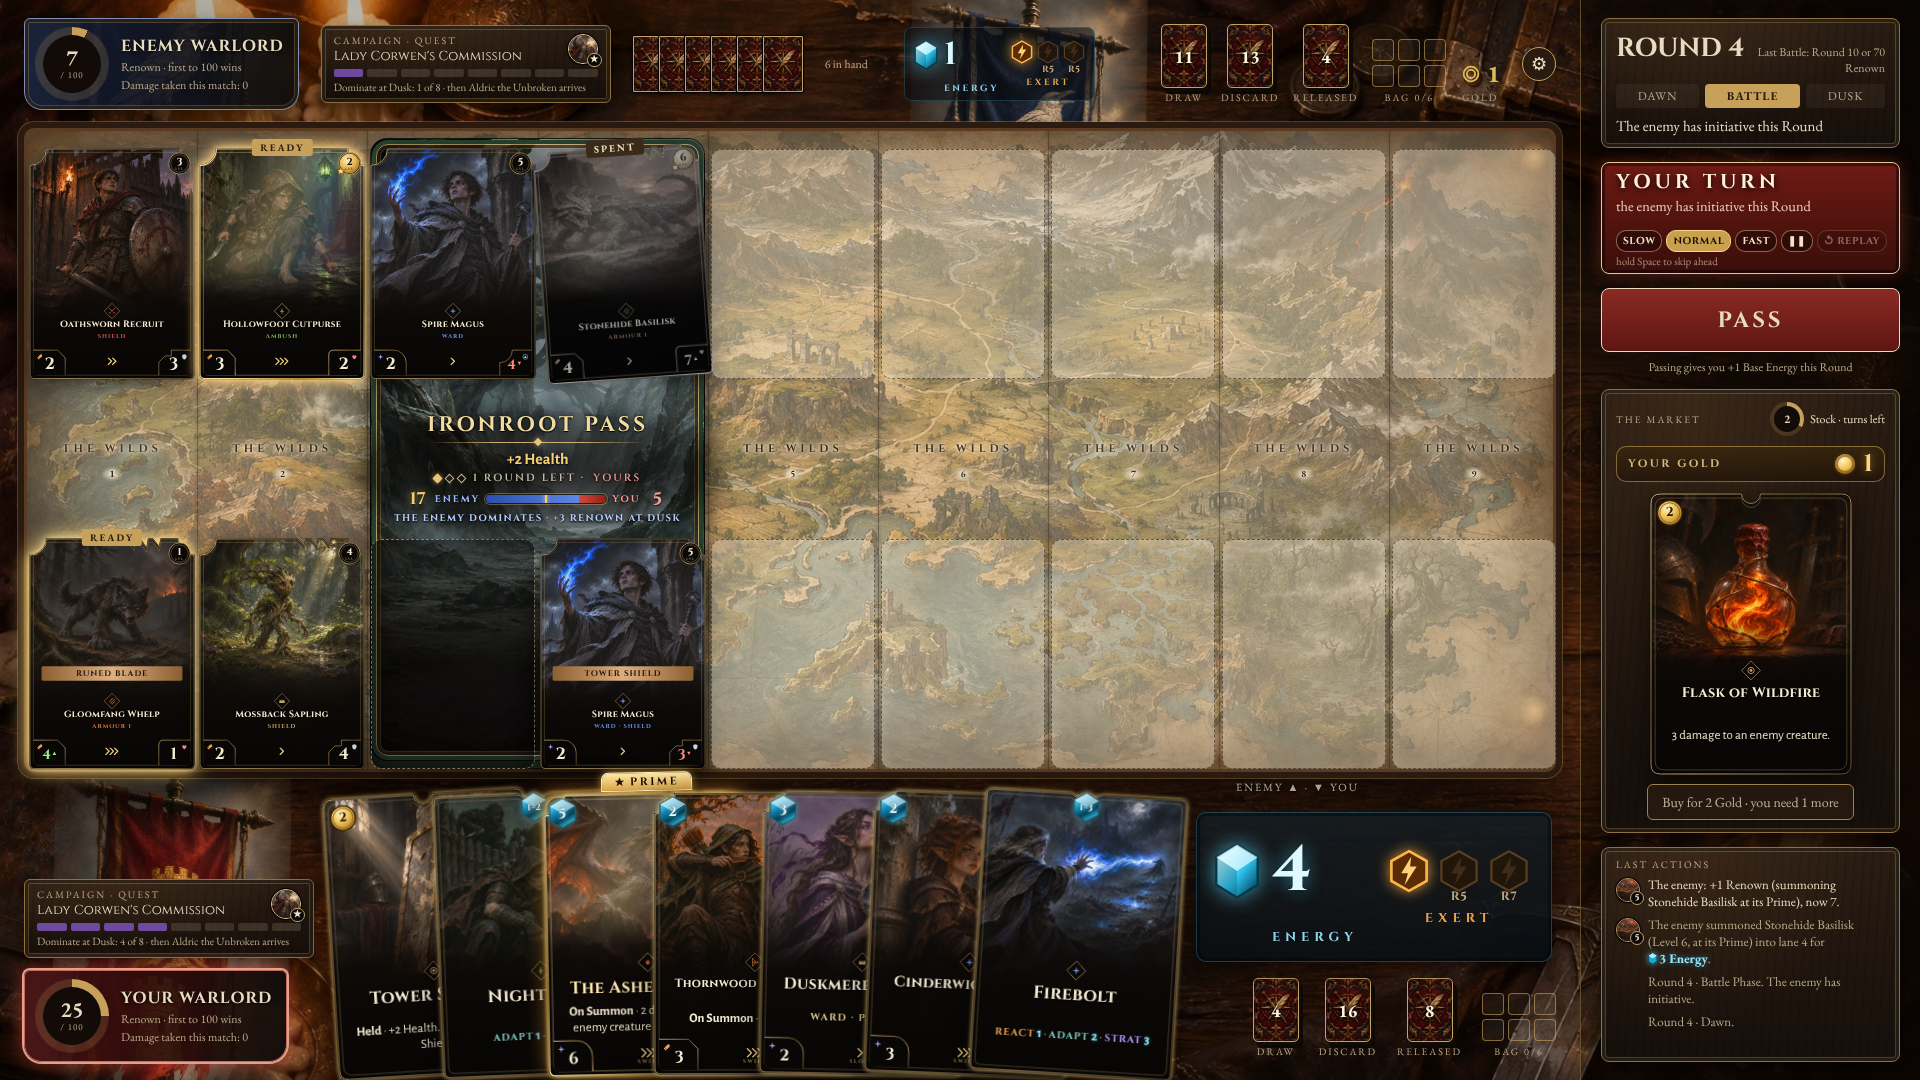
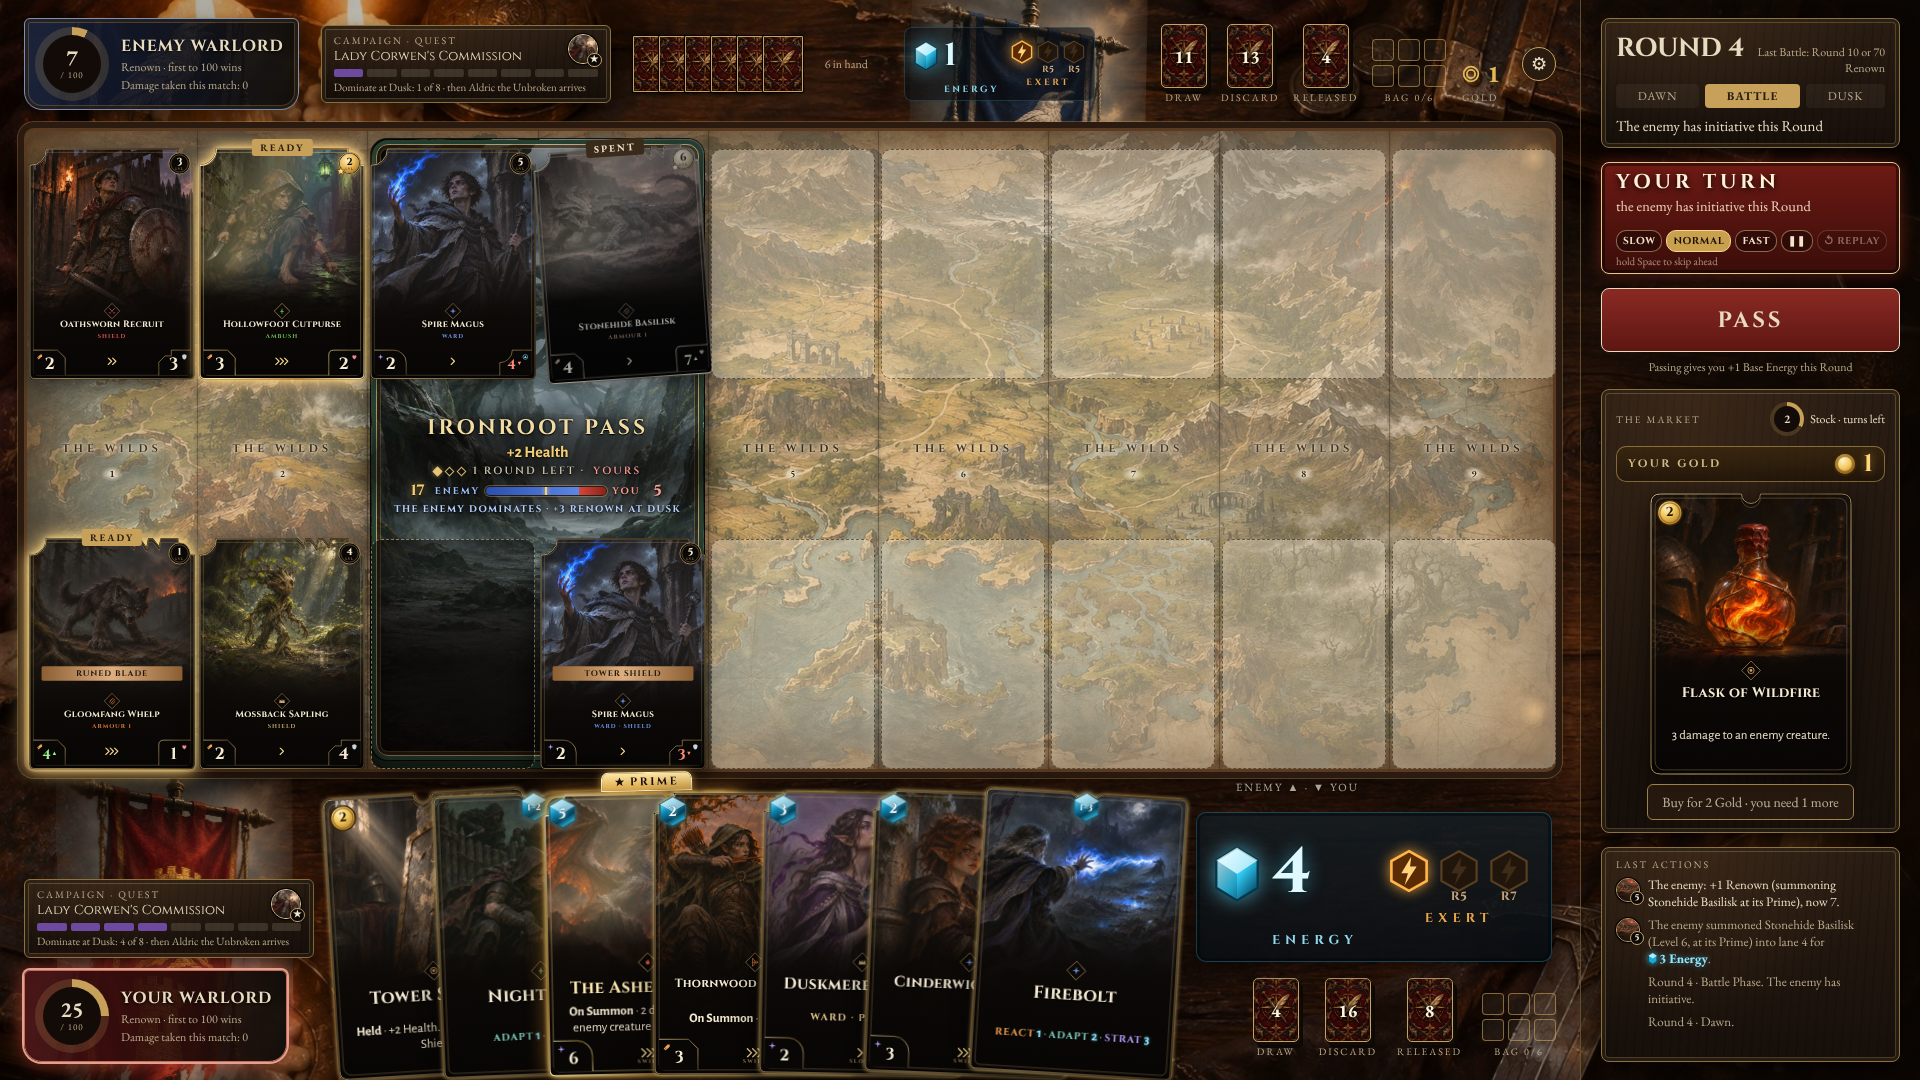
V5: README build-log entry with the match-length numbers
Claude-Session: https://claude.ai/code/session_01PfomRVSDGtFzY92diN3VpL

diff --git a/README.md b/README.md
@@ -432,3 +432,62 @@ node tools/compare.mjs
     It saves both screens at the same moments (`tools/screenshots/m-*.png`).
   - The layout check adds the lobby screens and online match setup at all three sizes.
 - Stage F's and G's readings are approved (17 November 2026). Stage M's readings, for Elliott's approval: `docs/03-look-and-feel.md` section 13.
+
+### V5: Keyword tips, turns, pacing, effects, dominance by Might and the Energy display (17 November 2026)
+- Built to `docs/15-v5-players-experience.md` as Elliott reduced it, and its "Added with V5". Mockups: `docs/mockups/v5/` (v5-turn, v5-enemy) and `docs/mockups/dominance-v1/`, in stage G's crystal cyan, from either seat online. The guided battle, the rules overlay, "You can", the Dusk summary and the accessibility tab weren't built.
+- **Dominance by Might** (rulebook 9 and 11; decided at Elliott's request):
+  - **The rule:** a creature's Might is its current Attack plus current Health. The side with more total Might in a placed Location dominates it at Dusk (+3); the Last Battle works the same way across the battlefield (+5, 8 with the passive). Ties and empty Locations score nothing.
+  - **The engine and the AI:** the engine's `dominantIn` uses Might. The AI's evaluation follows it, since it scores dominance through `dominantOf`.
+  - **The rest:** the Codex's glossary and Location lines, the keyword tips, and `tests/v5-might.test.js` (ties, damage, buffs, Items, Prime, the Last Battle).
+- **50 AI-vs-AI matches before and after** (`docs/balance/v5-before.txt`, `v5-after.txt`):
+
+  | | Before (Health) | After (Might) |
+  |---|---|---|
+  | Average length | 8.96 Rounds (median 9, 7–13) | 9.08 Rounds (median 9, 7–14) |
+  | Defeats | 33.5% of Renown | 31.5% |
+  | Damage to the Warlord | 22.0% | 25.5% |
+  | Location dominance | 21.8% | 21.0% |
+  | Favours | 11.2% | 10.3% |
+  | Prime summons | 6.4% | 6.7% |
+  | Last Battle dominance | 3.9% | 3.9% |
+  | Quests | 1.2% | 1.0% |
+  | Last Battle reached | 48 of 50 | 50 of 50 |
+  | Player 1's wins | 27 of 50 | 27 of 50 |
+
+- **The dominance line:**
+  - Each Location's label shows "N ENEMY ━━━|━━━ YOU N" (the bar split by share, a gold halfway mark, the leader in gold) and who scores at Dusk. The Last Battle's line runs above the board.
+  - Each creature's Might shows as a hexagon only while the pointer is over the line.
+  - The numbers and bar animate when Might changes.
+  - At Dusk the hexagons pop and count into the totals before the Renown flies.
+- **The Energy display** sits beside your hand, above your piles:
+  - one cyan crystal, one big number and "ENERGY";
+  - "EXERT" as three amber rune tiles (ready ones glow; exhausted ones are dark, with the Round they come back);
+  - a cost preview ("4 → 1") while you hover or pick up a card, with the runes it would spend pulsing;
+  - the number counts and the crystal pulses as Energy changes, and a spent rune flares into the number.
+  
+  The other player's Energy shows the same way, small, in their top bar.
+- **Whose turn:**
+  - "YOUR TURN" (crimson) or "ENEMY'S TURN · thinking" ("YOUR FRIEND'S TURN · choosing" online, blue) in the column under the Round panel, with one line of why.
+  - The active Warlord glows, and a banner sweep passes over the plaque as the turn changes.
+  - "MUST ATTACK BEFORE YOU PASS" sits on a creature that blocks your Pass.
+- **The other player's pacing:**
+  - animated dots;
+  - against the AI, a minimum think time;
+  - each of their actions announced over the board where it happens, from the engine's events (so a sealed Strat or a Retained card is never named);
+  - pace controls on the plaque: Slow, Normal, Fast, pause after each action, Replay (online too), and hold Space to skip ahead.
+- **Keyword tips:** hovering a game term on a card shows its kind and one or two sentences from the Codex's glossary. The term underlines while the tip is open; tips stay clear of the term and the hover preview, and go away under stage G's rules.
+- **Effects on top:**
+  - **The cause:** the presenter's copies of cards (ghosts of defeated cards, thrown Items) were in the DOM effects layer, above the WebGL effects. So an impact on a defeated card played under its ghost.
+  - **The fix:** they have their own layer under every effect, and the effects check asserts that each targeted effect draws above its target.
+- **Thrown Items** fly one smooth sampled arc: a wind-up, an eased launch, a spin, an ember trail, and the impact on the frame they land. Every card slide shares the gentler version of the arc. Low motion: a fade at the target.
+- **Fixed from stage M:** the presenter's side colours now follow the seat.
+- **Checks:**
+  - new layout scenes for the tips, both plaques, an announcement, each dominance line, the Might hexagons and the Energy preview;
+  - an online test that announcements never show hidden information;
+  - the two-browser check compares both seats' plaques, Energy and dominance lines (they agreed 129 times) and checks that announcements name "your friend";
+  - the effects check's layering assertion.
+- **Tools:**
+  - `tools/v5compare.mjs` saves the mockups beside the game and the Energy display at each size;
+  - `tools/v5clips.mjs` records the clips, each with a frame strip;
+  - `tools/aiprint.mjs` fingerprints the AI's play.
+- Readings for Elliott's approval: `docs/03-look-and-feel.md` section 14.
